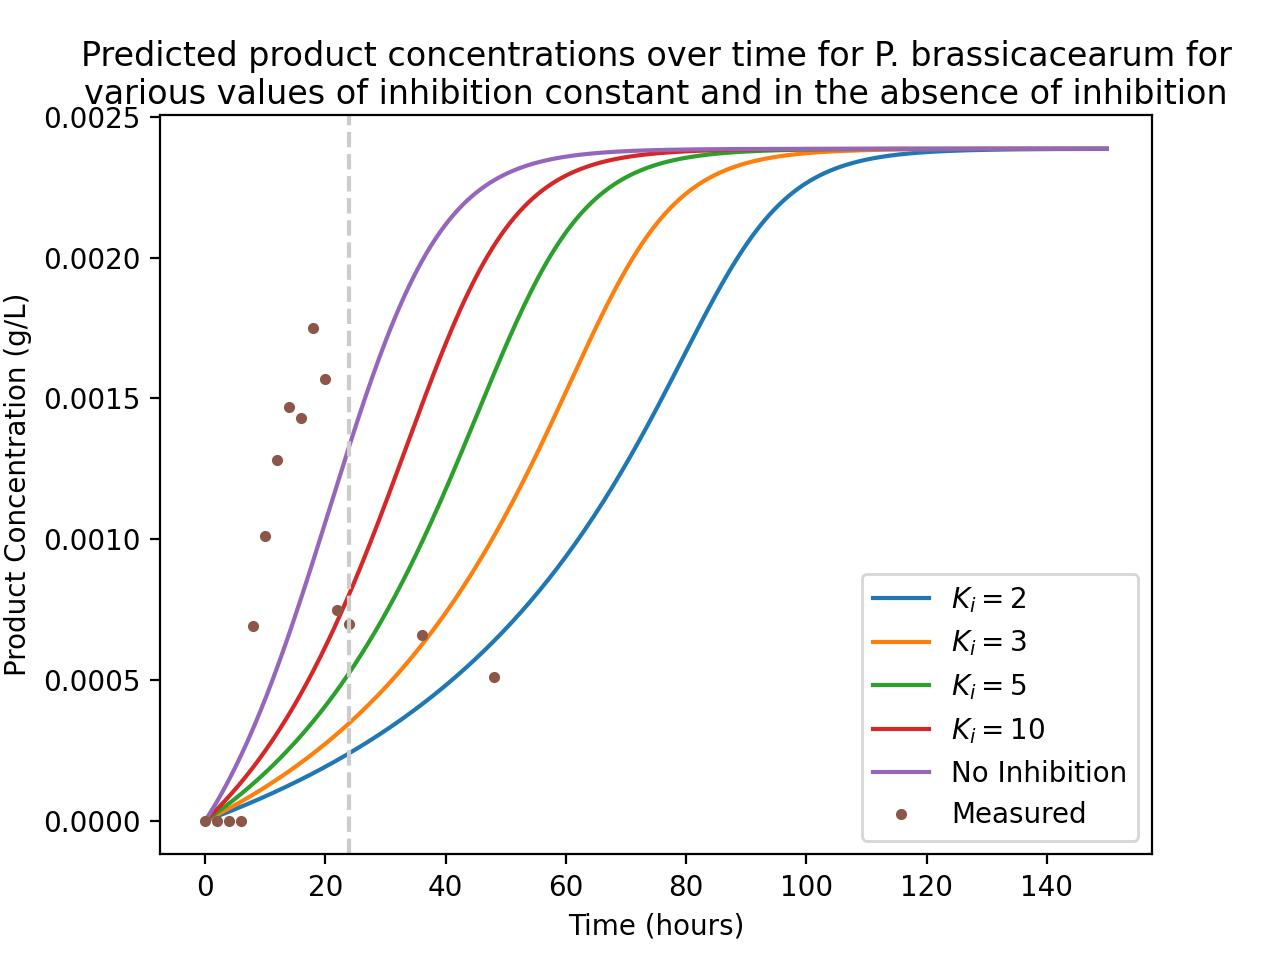
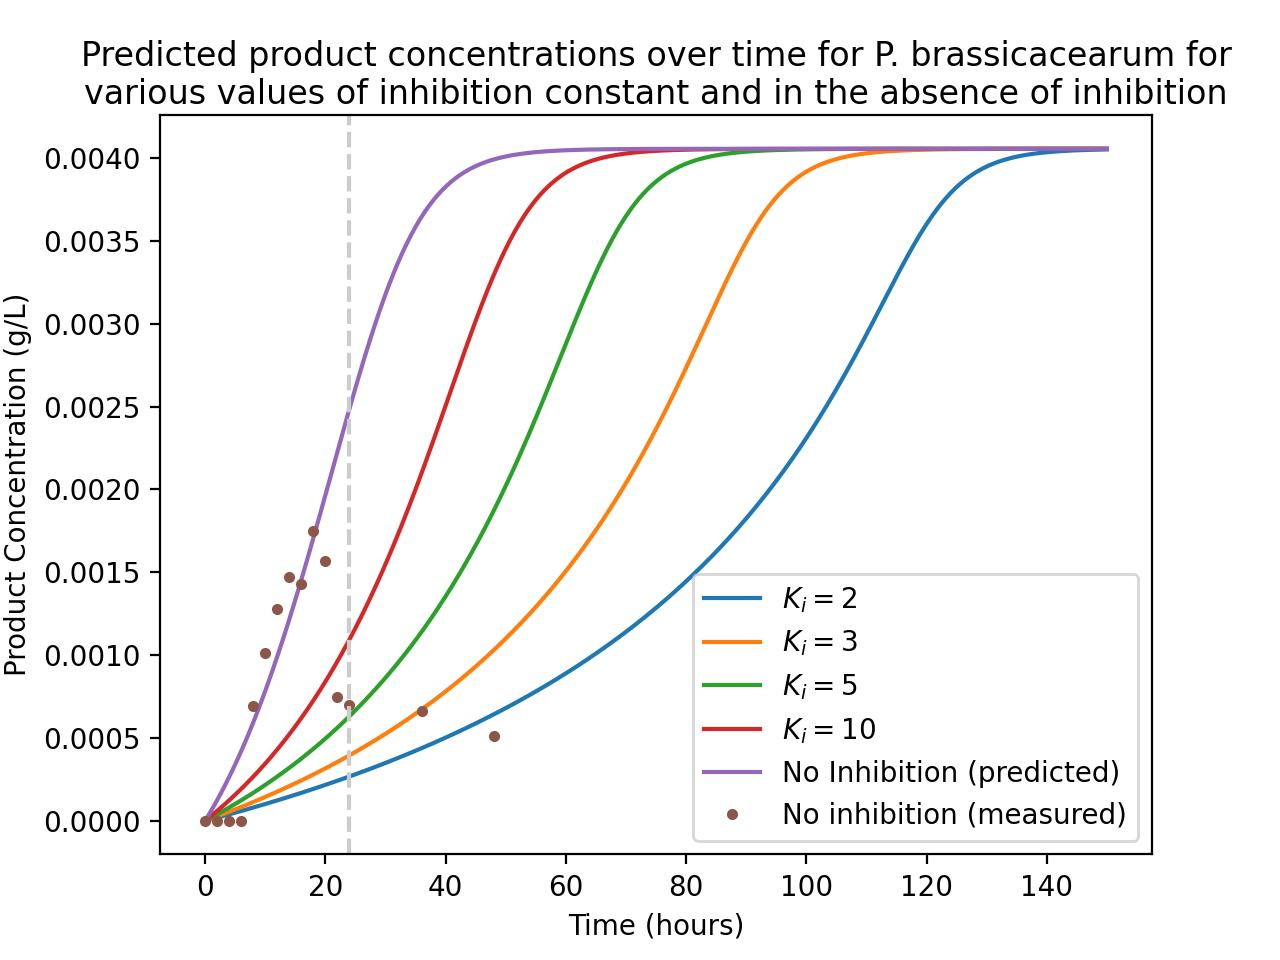
Add zero inhibition curves to model 7

diff --git a/7_P_brassicacearum.py b/7_P_brassicacearum.py
@@ -88,6 +88,11 @@ params.add('Ks', value= Ks, min=0, vary=True)
 params.add('Yxs', value= Yxs, min=0, vary=True)
 params.add('Yps', value= Yxs, min=0, vary=True)
 
+# Remove last three data points from the regression
+weight = np.ones( len(times_m) )
+for i in range(-3, 0):
+    print(i)
+    weight[i] = 0
 
 # Define regression
 def regress( params ):
@@ -106,7 +111,7 @@ def regress( params ):
     del c
 
     # Compute error
-    I = (states_m[:, 0] - cX)**2 + (states_m[:, 1] - cP)**2
+    I = (states_m[:, 0] - cX)**2 + ((states_m[:, 1] - cP) * weight )**2
 
     return I
 
@@ -160,7 +165,31 @@ plot_inhibition_curves(
     measurement_times=times_m,
     # cells=True,
     # scale_cX=None#1e8
-    cX_label_y='Biomass Concentration (cells/L)'
+    # cX_label_y='Biomass Concentration (cells/L)'
+)
+
+
+#######################################################################################
+
+
+plot_inhibition_curves(
+    times_p,
+    initial_states,
+    [],
+    args,
+    haldane_with_products,
+    mic_name,
+    cX_no_inhib=cX_no_inhib,
+    cS_no_inhib=cS_no_inhib,
+    cP_no_inhib=cP_no_inhib,
+    xvline=xvline,
+    show_fig=show_fig,
+    cX_measured=states_m[:,0],
+    cP_measured=states_m[:,1],
+    measurement_times=times_m,
+    # cells=True,
+    # scale_cX=None#1e8
+    # cX_label_y='Biomass Concentration (cells/L)'
 )
 
 
@@ -168,55 +197,55 @@ plot_inhibition_curves(
 
 # Ad-hoc 
 
-times = np.linspace(times_m[0], 85, 400) # times_m[-1]
+# times = np.linspace(times_m[0], 85, 400) # times_m[-1]
 
-c_monod = odeint(monod, initial_states, times, args=args)
-zero_inhib = c_monod[:,0] # Biomass concentration
-plt.figure()
-plt.plot(
-    times_m,
-    states_m[:,0], 
-    'o',
-    label='Measured',
-    ms=5
-)
-plt.plot(
-    times,
-    zero_inhib, 
-    '-',
-    label='Predicted',
-    # linewidth=1
-)
-plt.xlabel('Time (hours)')
-plt.ylabel( 'Biomass Concentration (g/L)' )
-title = 'Biomass concentrations over time for ' + mic_name + ': comparison of measured data with Monod model prediction'
-plt.title( title, loc='center', wrap=True )
-plt.legend()
-if show_fig:
-    plt.show()
+# c_monod = odeint(monod, initial_states, times, args=args)
+# zero_inhib = c_monod[:,0] # Biomass concentration
+# plt.figure()
+# plt.plot(
+#     times_m,
+#     states_m[:,0], 
+#     'o',
+#     label='Measured',
+#     ms=5
+# )
+# plt.plot(
+#     times,
+#     zero_inhib, 
+#     '-',
+#     label='Predicted',
+#     # linewidth=1
+# )
+# plt.xlabel('Time (hours)')
+# plt.ylabel( 'Biomass Concentration (g/L)' )
+# title = 'Biomass concentrations over time for ' + mic_name + ': comparison of measured data with Monod model prediction'
+# plt.title( title, loc='center', wrap=True )
+# plt.legend()
+# if show_fig:
+#     plt.show()
 
 
-c_monod = odeint(monod, initial_states, times, args=args)
-zero_inhib = c_monod[:,2] # Product concentration
-plt.figure()
-plt.plot(
-    times_m,
-    states_m[:,1], 
-    'o',
-    label='Measured',
-    ms=5
-)
-plt.plot(
-    times,
-    zero_inhib, 
-    '-',
-    label='Predicted',
-    # linewidth=1
-)
-plt.xlabel('Time (hours)')
-plt.ylabel( 'Product Concentration (g/L)' )
-title = 'Product concentrations over time for ' + mic_name + ': comparison of measured data with Monod model prediction'
-plt.title( title, loc='center', wrap=True )
-plt.legend()
-if show_fig:
-    plt.show()
+# c_monod = odeint(monod, initial_states, times, args=args)
+# zero_inhib = c_monod[:,2] # Product concentration
+# plt.figure()
+# plt.plot(
+#     times_m,
+#     states_m[:,1], 
+#     'o',
+#     label='Measured',
+#     ms=5
+# )
+# plt.plot(
+#     times,
+#     zero_inhib, 
+#     '-',
+#     label='Predicted',
+#     # linewidth=1
+# )
+# plt.xlabel('Time (hours)')
+# plt.ylabel( 'Product Concentration (g/L)' )
+# title = 'Product concentrations over time for ' + mic_name + ': comparison of measured data with Monod model prediction'
+# plt.title( title, loc='center', wrap=True )
+# plt.legend()
+# if show_fig:
+#     plt.show()
